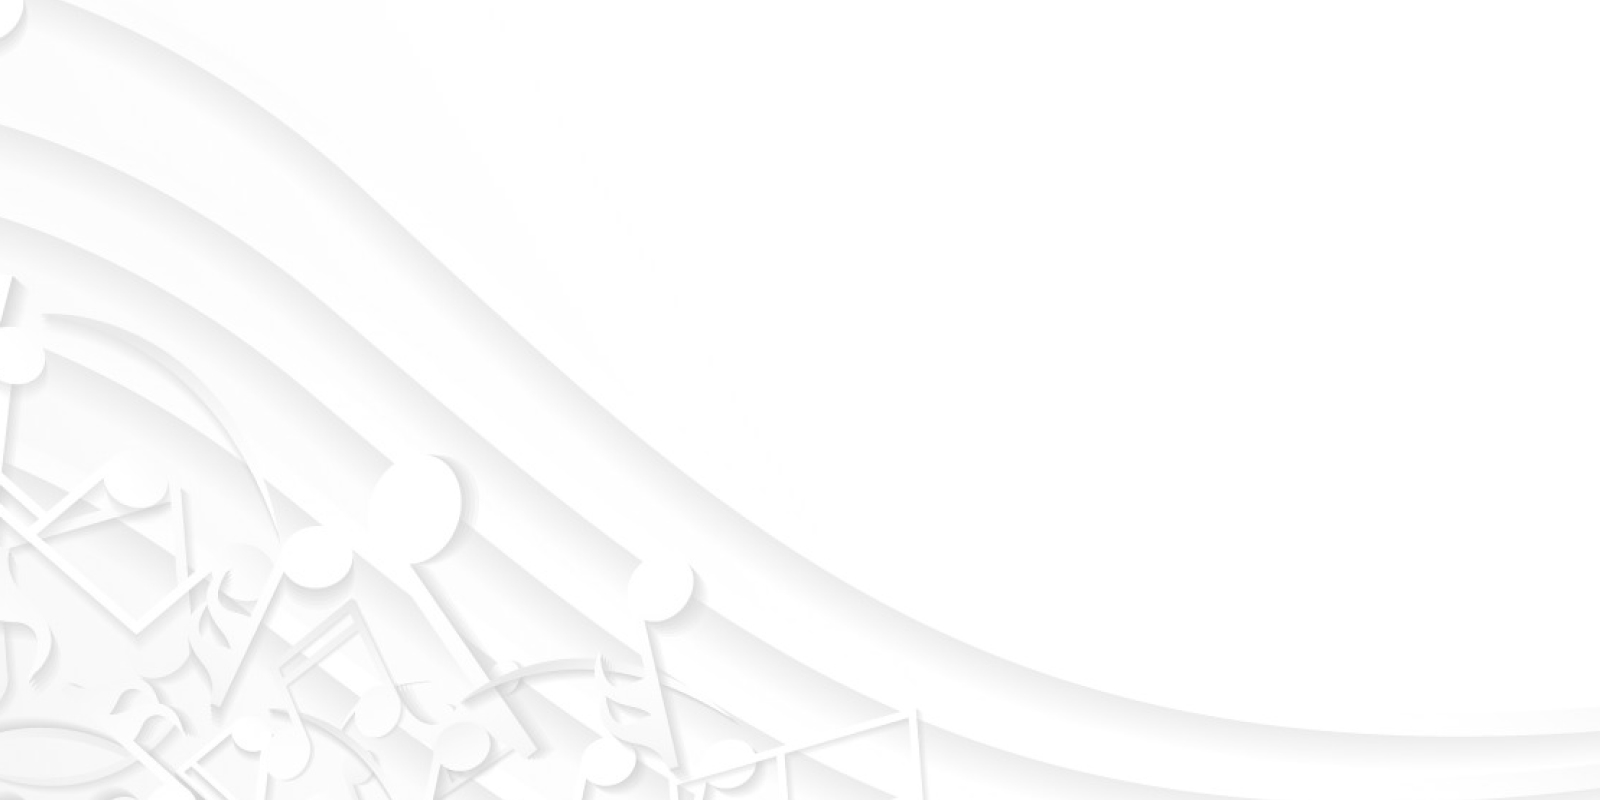
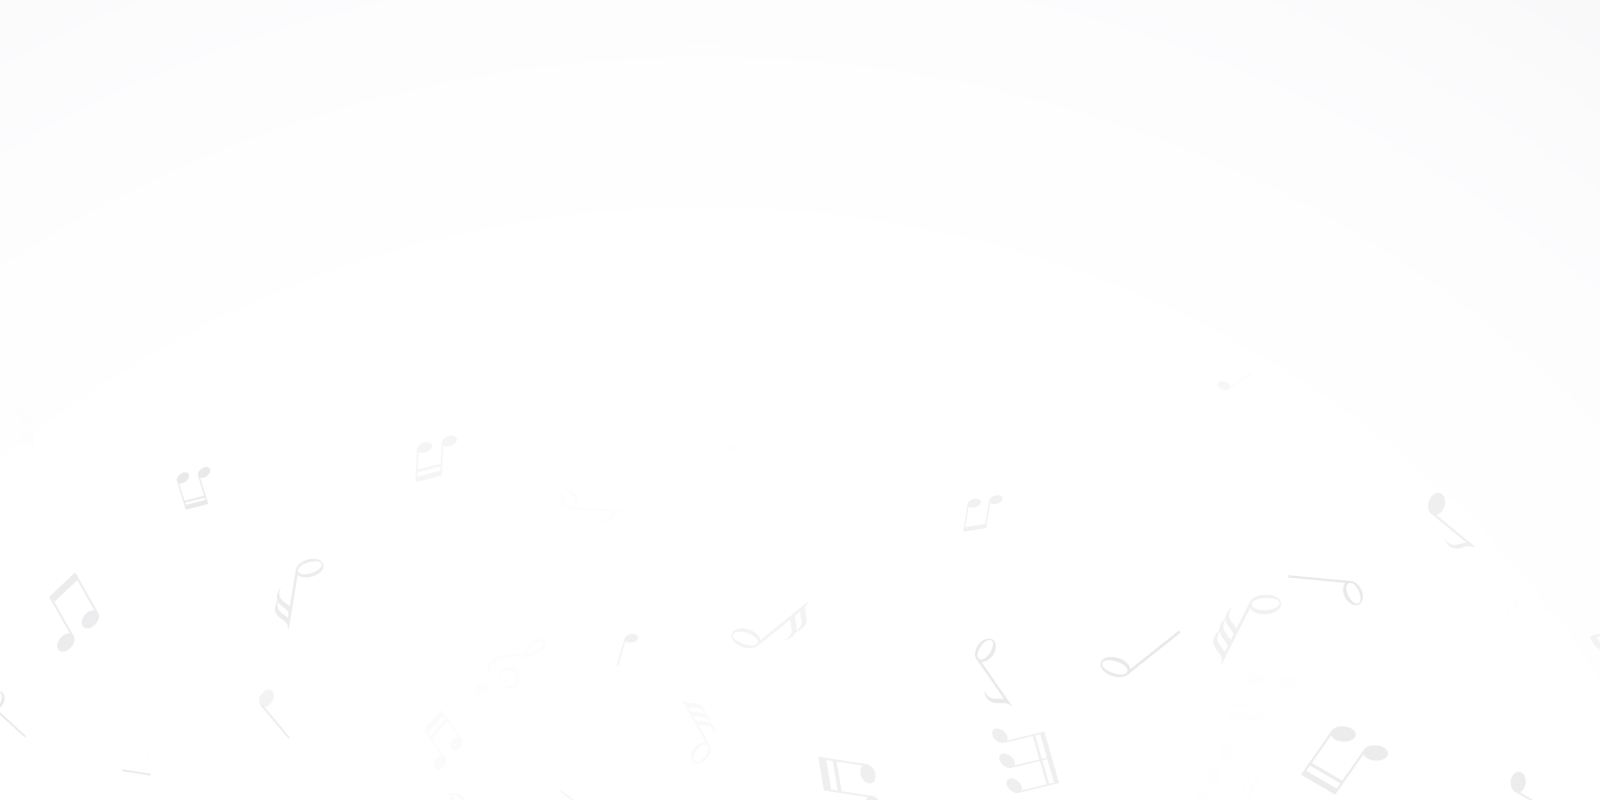
changed services section content

diff --git a/index.html b/index.html
@@ -154,32 +154,38 @@
                 </div>
               </div>
               <div class="services-item-body">
-                <h4 class="services-item-title title-item">Piano Tuning</h4>
-                <p class="services-item-text">We have expert aurally trained piano technicians who can professionally
-                  tune the pianos for individuals, schools, teachers, churches, and concert stages. We use our aural
-                  skills and special software for pitch adjustments.</p>
+                <h4 class="services-item-title title-item">Tuning and Regulation</h4>
+                <p class="services-item-text">This makes the piano sound better and easier to play.</p>
+                <p class="services-item-text">We use our aural skills and special software for pitch adjustments and the
+                  action mechanism (keys, pedals, hammers) to optimize efficiency of touch.</p>
               </div>
             </div>
             <div class="services-item">
               <div class="services-item-header">
                 <div class="services-item-img-wrapper">
-                  <img class="services-item-img" src="img/services/repair.jpg" alt="Piano Repair Service">
+                  <img class="services-item-img" src="img/services/restoration.jpg"
+                    alt="Piano Repair and Restoration Service">
                 </div>
               </div>
               <div class="services-item-body">
-                <h4 class="services-item-title title-item">Piano Repair</h4>
-                <p class="services-item-text">If your piano is damaged for some reason, our experienced technicians can arrive at your location and provide expert piano repair service or even take it to our workshop for more extensive work with your instrument.</p>
+                <h4 class="services-item-title title-item">Repair and Restoration</h4>
+                <p class="services-item-text">This fixes or restores your piano to a working condition.</p>
+                <p class="services-item-text">We offer simple repairs such as replacing a string or repairing a hammer,
+                  or major rebuilding services including complete string and action replacement.</p>
               </div>
             </div>
             <div class="services-item">
               <div class="services-item-header">
                 <div class="services-item-img-wrapper">
-                  <img class="services-item-img" src="img/services/restoration.jpg" alt="Piano Restoration Service">
+                  <img class="services-item-img" src="img/services/cleaning.jpg"
+                    alt="Piano Cleaning and Polishing Service">
                 </div>
               </div>
               <div class="services-item-body">
-                <h4 class="services-item-title title-item">Piano Restoration</h4>
-                <p class="services-item-text">This service is composed of complete dismounting, checkup, and repair if needed, including all worn, damaged, or spoiled parts replacement. Then we reassemble, test, and adjust your piano to the same tolerance.</p>
+                <h4 class="services-item-title title-item">Cleaning and Polishing</h4>
+                <p class="services-item-text">This makes the piano look better.</p>
+                <p class="services-item-text">We are cleaning the dust, dirt, grime, and foreign objects from the inside
+                  of the piano, including under the strings, under the keys, and inside the action. </p>
               </div>
             </div>
             <div class="services-item">
@@ -189,13 +195,13 @@
                 </div>
               </div>
               <div class="services-item-body">
-                <h4 class="services-item-title title-item">Piano Moving</h4>
-                <p class="services-item-text">Despite the fact that the pianos are extremely heavy,
-                  they are also highly sensitive. Maestro Piano is equipped with specialized equipment and tools to
-                  provide you with a safe and effective piano movement.</p>
+                <h4 class="services-item-title title-item">Moving and Delivery</h4>
+                <p class="services-item-text">This provides a safe piano movement.</p>
+                <p class="services-item-text">Moving a piano is an incredibly specialist task and we highly recommend
+                  using a specialist piano mover when transporting your piano.</p>
               </div>
             </div>
-            
+
           </div>
         </div>
       </section>

diff --git a/css/footer.css b/css/footer.css
@@ -12,9 +12,6 @@
   align-items: center;
 }
 
-.footer-phone {
- 
-}
 .footer-divider-line {
   height: 1px;
   width: 100%;
@@ -27,4 +24,10 @@
   justify-content: center;
   padding-top: 30px;
 
+}
+@media (max-width: 479.98px) {
+  .footer {
+    padding-top: 30px;
+    padding-bottom: 30px;
+  }
 }

diff --git a/css/quote.css b/css/quote.css
@@ -1,5 +1,5 @@
 .quote {
-  background-image: url(../img/notes-bg2.jpg);
+  background-image: url(../img/notes-bg.jpg);
   background-repeat: no-repeat;
   background-size: cover;
   background-position: center bottom;

diff --git a/css/common.css b/css/common.css
@@ -189,3 +189,9 @@ body {
     padding-bottom: 15px;
   }
 }
+@media (max-width: 479.98px) {
+  .section-page {
+    padding-top: 30px;
+    padding-bottom: 30px;
+  }
+}

diff --git a/css/services.css b/css/services.css
@@ -34,7 +34,7 @@
 }
 
 .services-item-text {
-  padding-bottom: 20px;
+  padding-bottom: 10px;
 }
 
 @media (max-width: 991.98px) {
